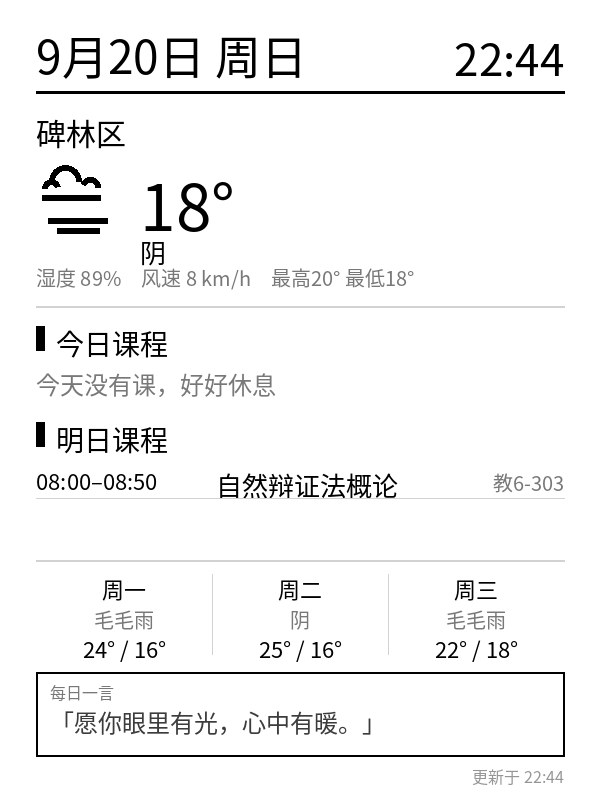
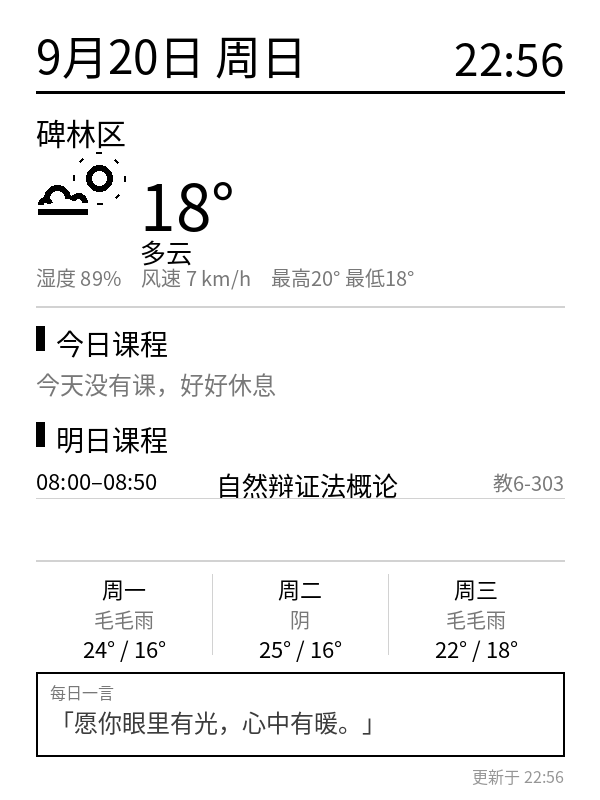
chore: update display 2026-09-20 22:56

diff --git a/index.html b/index.html
@@ -43,11 +43,11 @@ body{background:#fff;color:#111;font-family:sans-serif;margin:0;padding:16px;}
 </style>
 </head>
 <body>
-<div class="hd">9月20日 周日<span id="clock">22:44</span></div>
+<div class="hd">9月20日 周日<span id="clock">22:56</span></div>
 <div class="left">
   <div class="wx">
-    <div class="wxbig">阴 18°</div>
-    <div class="wxd">碑林区<br>湿度 89%　风速 8 km/h　最高20° 最低18°</div>
+    <div class="wxbig">多云 18°</div>
+    <div class="wxd">碑林区<br>湿度 89%　风速 7 km/h　最高20° 最低18°</div>
   </div>
   <div class="quote">
     <div class="qt">每日一言</div>
@@ -62,7 +62,7 @@ body{background:#fff;color:#111;font-family:sans-serif;margin:0;padding:16px;}
   <div class="sec">未来三天</div>
   <div class="fc"><div class="fcell"><span class="fd">周一</span><span class="fw">毛毛雨</span><span class="ft2">24°/16°</span></div><div class="fcell"><span class="fd">周二</span><span class="fw">阴</span><span class="ft2">25°/16°</span></div><div class="fcell"><span class="fd">周三</span><span class="fw">毛毛雨</span><span class="ft2">22°/18°</span></div></div>
 </div>
-<div class="ft">更新于 22:44（每 15 分钟自动刷新）</div>
+<div class="ft">更新于 22:56（每 15 分钟自动刷新）</div>
 <script>
 var c=document.getElementById("clock");
 function t(){var n=new Date();var h=n.getHours();var m=n.getMinutes();if(m<10)m="0"+m;c.innerHTML=h+":"+m;}
